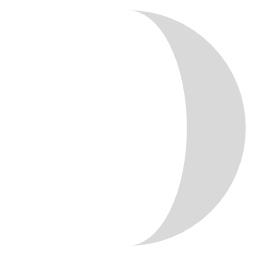
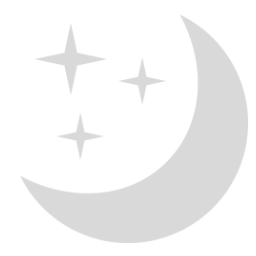
Weather: a small hand-drawn moon (moon-sm.png) on the taskbar of a monitor at 100%
The forecast popup keeps the big one. The small one is a 16 pixel bitmap, so its icon takes its own MonitorOffset tag (WeatherIconMoonSm) to be drawn 1:1.

diff --git a/RetroBar/Controls/WeatherDisplay.xaml b/RetroBar/Controls/WeatherDisplay.xaml
@@ -6,6 +6,7 @@
              xmlns:controls="clr-namespace:RetroBar.Controls">
     <UserControl.Resources>
         <converters:CpuTempShownToMonitorTagConverter x:Key="cpuTempShownToMonitorTagConverter" />
+        <converters:WeatherIconTagConverter x:Key="weatherIconTagConverter" />
     </UserControl.Resources>
     <Grid>
     <!-- Transparent background so the whole widget (not just its icon and text) takes the click that
@@ -25,10 +26,15 @@
              CpuTempDisplay.xaml.cs, which sets IsCpuTempShown). Same pattern TrayBoxBevel uses
              for its own media-playing-state tag. -->
         <Rectangle Fill="{DynamicResource ClockForeground}"
-                   Style="{DynamicResource WeatherIconStyle}"
-                   utilities:MonitorOffset.Tag="{Binding Path=IsCpuTempShown, RelativeSource={RelativeSource Mode=FindAncestor, AncestorType={x:Type Window}}, Converter={StaticResource cpuTempShownToMonitorTagConverter}, ConverterParameter=WeatherIcon}">
+                   Style="{DynamicResource WeatherIconStyle}">
+            <utilities:MonitorOffset.Tag>
+                <MultiBinding Converter="{StaticResource weatherIconTagConverter}" ConverterParameter="WeatherIcon">
+                    <Binding Path="IsCpuTempShown" RelativeSource="{RelativeSource Mode=FindAncestor, AncestorType={x:Type Window}}" />
+                    <Binding Path="IsSmallMoonShown" />
+                </MultiBinding>
+            </utilities:MonitorOffset.Tag>
             <Rectangle.OpacityMask>
-                <ImageBrush ImageSource="{Binding WeatherIconPath}" Stretch="Uniform" />
+                <ImageBrush ImageSource="{Binding WeatherBarIconPath}" Stretch="Uniform" />
             </Rectangle.OpacityMask>
         </Rectangle>
         <TextBlock Text="{Binding WeatherBarTemp}"

diff --git a/RetroBar/Controls/WeatherDisplay.xaml.cs b/RetroBar/Controls/WeatherDisplay.xaml.cs
@@ -24,6 +24,22 @@ namespace RetroBar.Controls
     {
         private DispatcherTimer _timer;
         private WeatherViewModel _viewModel;
+        private Window _window;
+
+        // The taskbar's icon of the moon is a small, hand-drawn one on a monitor at 100% (see WeatherViewModel.UseSmallBarIcon).
+        private void UpdateSmallBarIcon()
+        {
+            if (_viewModel != null)
+            {
+                _viewModel.UseSmallBarIcon = VisualTreeHelper.GetDpi(this).DpiScaleX <= 1.0;
+            }
+        }
+
+        private void Window_OnDpiChanged(object sender, DpiChangedEventArgs e)
+        {
+            // The scale this control draws at is only updated once the change has been laid out.
+            Dispatcher.BeginInvoke(new Action(UpdateSmallBarIcon), DispatcherPriority.Loaded);
+        }
 
         public WeatherDisplay()
         {
@@ -43,6 +59,13 @@ namespace RetroBar.Controls
 
             _viewModel = new WeatherViewModel();
             DataContext = _viewModel;
+
+            UpdateSmallBarIcon();
+            if (Window.GetWindow(this) is Window window)
+            {
+                _window = window;
+                _window.DpiChanged += Window_OnDpiChanged;
+            }
 
             // Fetch immediately on load (or, if another monitor's display already has the reading,
             // show it right away - see WeatherViewModel)
@@ -256,6 +279,12 @@ namespace RetroBar.Controls
             ForecastPopup.IsOpen = false;
             _timer?.Stop();
             _timer = null;
+            if (_window != null)
+            {
+                _window.DpiChanged -= Window_OnDpiChanged;
+                _window = null;
+            }
+
             _viewModel?.Dispose();
             _viewModel = null;
         }
@@ -464,7 +493,51 @@ namespace RetroBar.Controls
                     _weatherIconPath = value;
                     OnPropertyChanged();
                 }
+
+                WeatherBarIconPath = BarIconPathFor(_weatherIconPath);
             }
+        }
+
+        // The icon as the taskbar draws it: the same as WeatherIconPath, except that the moon is a small hand-drawn one
+        // (moon-sm.png) where UseSmallBarIcon is set (a monitor at 100%), where the big one scaled down comes out soft.
+        // The forecast popup, which draws the icon large, always uses WeatherIconPath.
+        private string _weatherBarIconPath;
+        public string WeatherBarIconPath
+        {
+            get => _weatherBarIconPath;
+            private set
+            {
+                if (_weatherBarIconPath != value)
+                {
+                    _weatherBarIconPath = value;
+                    OnPropertyChanged();
+                    OnPropertyChanged(nameof(IsSmallMoonShown));
+                }
+            }
+        }
+
+        /// <summary>The small moon is the icon on the taskbar, which takes its own MonitorOffset tag (see WeatherIconTagConverter).</summary>
+        public bool IsSmallMoonShown => _weatherBarIconPath != null && _weatherBarIconPath.EndsWith("/moon-sm.png", StringComparison.OrdinalIgnoreCase);
+
+        private bool _useSmallBarIcon;
+        public bool UseSmallBarIcon
+        {
+            get => _useSmallBarIcon;
+            set
+            {
+                if (_useSmallBarIcon != value)
+                {
+                    _useSmallBarIcon = value;
+                    WeatherBarIconPath = BarIconPathFor(_weatherIconPath);
+                }
+            }
+        }
+
+        private string BarIconPathFor(string iconPath)
+        {
+            return _useSmallBarIcon && iconPath != null && iconPath.EndsWith("/moon.png", StringComparison.OrdinalIgnoreCase)
+                ? GetImagePath("moon-sm.png")
+                : iconPath;
         }
 
         private string _weatherTemp;

diff --git a/RetroBar/Converters/WeatherIconTagConverter.cs b/RetroBar/Converters/WeatherIconTagConverter.cs
@@ -1,0 +1,33 @@
+using System;
+using System.Globalization;
+using System.Windows.Data;
+
+namespace RetroBar.Converters
+{
+    /// <summary>
+    /// The utilities:MonitorOffset.Tag of the weather icon on the taskbar: the base tag (the ConverterParameter, "WeatherIcon")
+    /// with "MoonSm" added while the small hand-drawn moon is the icon (values[1]; it is drawn at its own size, so it has its
+    /// own adjustments), and then "NoCpuTemp" added while the CPU temperature isn't shown (values[0], as for
+    /// CpuTempShownToMonitorTagConverter): WeatherIcon, WeatherIconNoCpuTemp, WeatherIconMoonSm, WeatherIconMoonSmNoCpuTemp.
+    /// </summary>
+    public class WeatherIconTagConverter : IMultiValueConverter
+    {
+        public object Convert(object[] values, Type targetType, object parameter, CultureInfo culture)
+        {
+            if (parameter is not string baseTag || string.IsNullOrEmpty(baseTag))
+            {
+                return null;
+            }
+
+            bool cpuTempShown = values.Length < 1 || values[0] is not false;
+            bool smallMoon = values.Length > 1 && values[1] is true;
+
+            return baseTag + (smallMoon ? "MoonSm" : "") + (cpuTempShown ? "" : "NoCpuTemp");
+        }
+
+        public object[] ConvertBack(object value, Type[] targetTypes, object parameter, CultureInfo culture)
+        {
+            throw new NotImplementedException();
+        }
+    }
+}
